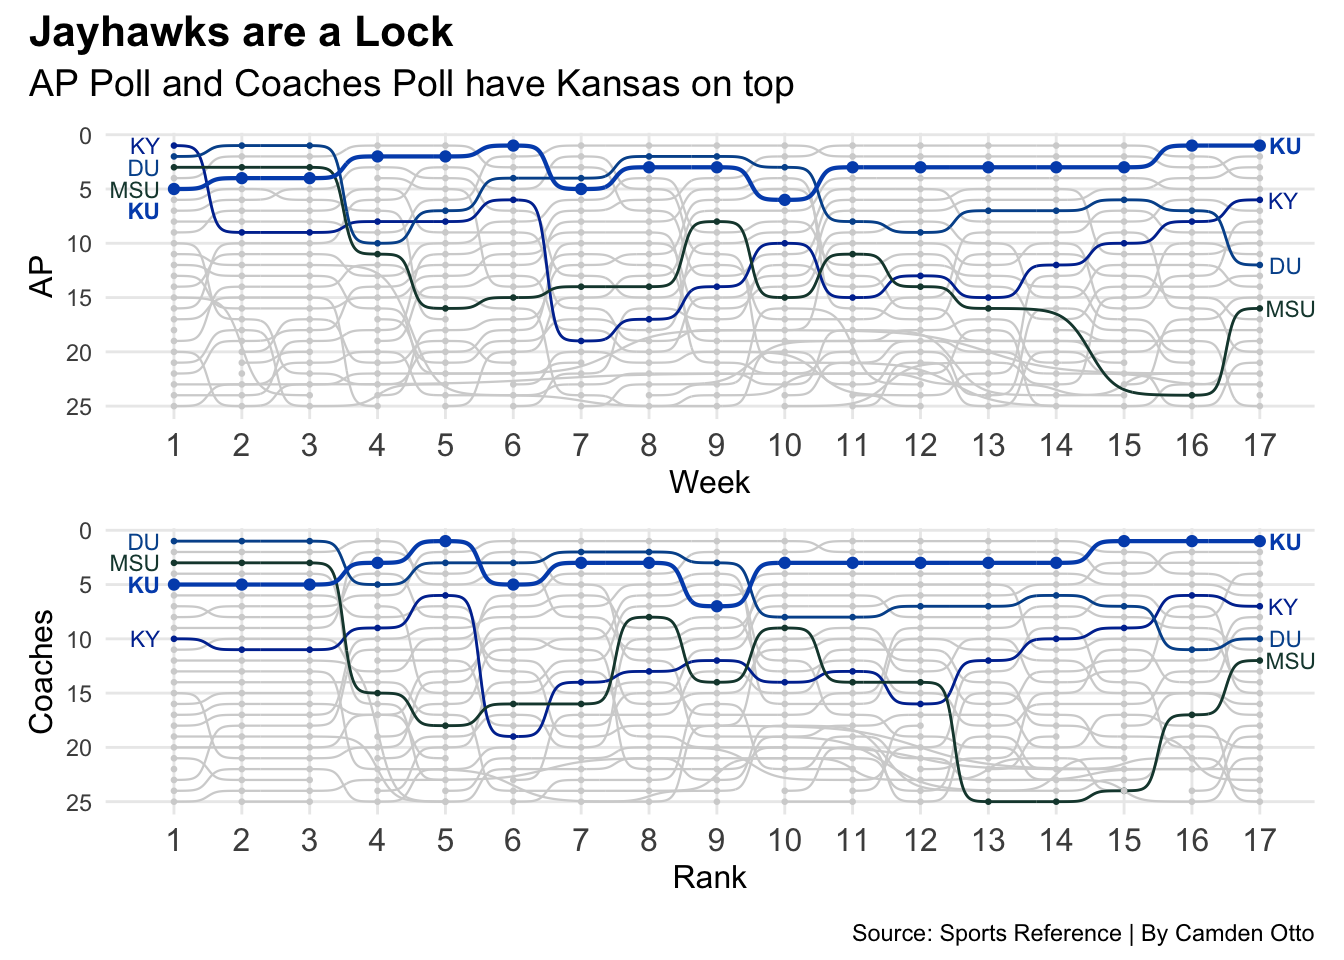
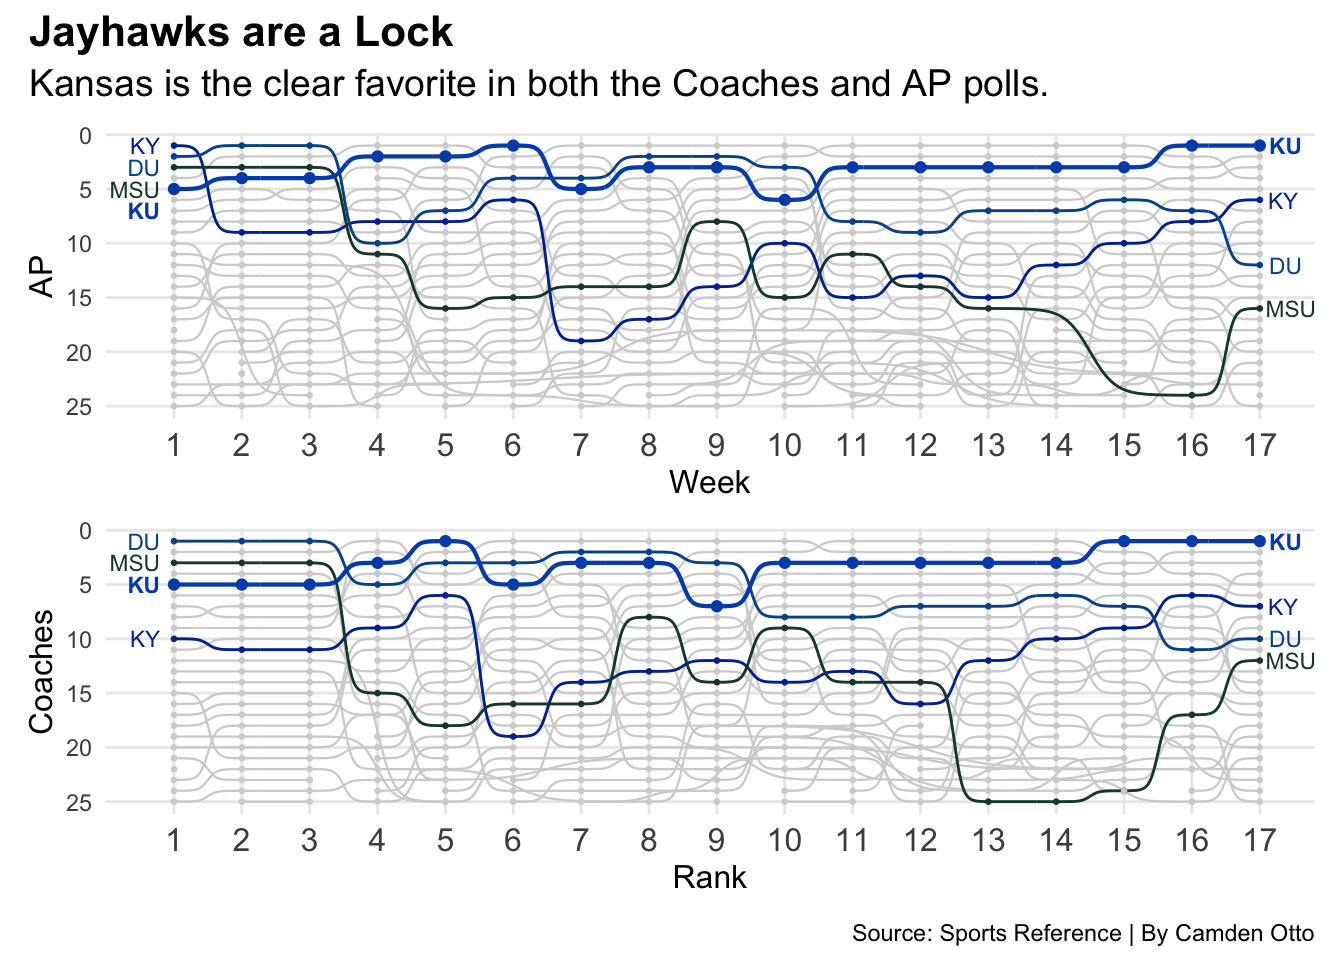
2.2

Changed region(s): [[0.0, 0.0625, 0.7812, 0.125]]

diff --git a/posts/covid-got-scared-of-the-jayhawks/index.html b/posts/covid-got-scared-of-the-jayhawks/index.html
@@ -240,7 +240,7 @@ pre > code.sourceCode > span > a:first-child::before { text-decoration: underlin
 <span id="cb1-36"><a href="#cb1-36" aria-hidden="true" tabindex="-1"></a>) <span class="sc">+</span> </span>
 <span id="cb1-37"><a href="#cb1-37" aria-hidden="true" tabindex="-1"></a>   <span class="fu">theme_minimal</span>()  <span class="sc">+</span></span>
 <span id="cb1-38"><a href="#cb1-38" aria-hidden="true" tabindex="-1"></a>  <span class="fu">labs</span>(</span>
-<span id="cb1-39"><a href="#cb1-39" aria-hidden="true" tabindex="-1"></a>    <span class="at">x=</span><span class="st">"Odds"</span>, </span>
+<span id="cb1-39"><a href="#cb1-39" aria-hidden="true" tabindex="-1"></a>    <span class="at">x=</span><span class="st">"Betting Odds"</span>, </span>
 <span id="cb1-40"><a href="#cb1-40" aria-hidden="true" tabindex="-1"></a>    <span class="at">y=</span><span class="st">" "</span></span>
 <span id="cb1-41"><a href="#cb1-41" aria-hidden="true" tabindex="-1"></a>    ) <span class="sc">+</span></span>
 <span id="cb1-42"><a href="#cb1-42" aria-hidden="true" tabindex="-1"></a>    <span class="fu">plot_annotation</span>(</span>
@@ -294,7 +294,7 @@ pre > code.sourceCode > span > a:first-child::before { text-decoration: underlin
 <span id="cb2-23"><a href="#cb2-23" aria-hidden="true" tabindex="-1"></a>    ) <span class="sc">+</span></span>
 <span id="cb2-24"><a href="#cb2-24" aria-hidden="true" tabindex="-1"></a>    <span class="fu">plot_annotation</span>(</span>
 <span id="cb2-25"><a href="#cb2-25" aria-hidden="true" tabindex="-1"></a>    <span class="at">title =</span> <span class="st">"2020 Conference Power Ranking"</span>,</span>
-<span id="cb2-26"><a href="#cb2-26" aria-hidden="true" tabindex="-1"></a>    <span class="at">subtitle =</span> <span class="st">"SOS and SRS favor the Big Ten"</span>,</span>
+<span id="cb2-26"><a href="#cb2-26" aria-hidden="true" tabindex="-1"></a>    <span class="at">subtitle =</span> <span class="st">"Measuring SOS and SRS across conferences."</span>,</span>
 <span id="cb2-27"><a href="#cb2-27" aria-hidden="true" tabindex="-1"></a>    <span class="at">caption =</span> <span class="st">"Source: Sports Reference | By Camden Otto"</span></span>
 <span id="cb2-28"><a href="#cb2-28" aria-hidden="true" tabindex="-1"></a>  ) <span class="sc">&amp;</span> </span>
 <span id="cb2-29"><a href="#cb2-29" aria-hidden="true" tabindex="-1"></a>  <span class="fu">theme</span>(</span>
@@ -346,7 +346,7 @@ pre > code.sourceCode > span > a:first-child::before { text-decoration: underlin
 <span id="cb3-27"><a href="#cb3-27" aria-hidden="true" tabindex="-1"></a>    ) <span class="sc">+</span></span>
 <span id="cb3-28"><a href="#cb3-28" aria-hidden="true" tabindex="-1"></a>    <span class="fu">plot_annotation</span>(</span>
 <span id="cb3-29"><a href="#cb3-29" aria-hidden="true" tabindex="-1"></a>    <span class="at">title =</span> <span class="st">"Recreate the Season That Never Finished"</span>,</span>
-<span id="cb3-30"><a href="#cb3-30" aria-hidden="true" tabindex="-1"></a>    <span class="at">subtitle =</span> <span class="st">"Kansas cuts down the nets when SRS and SOS tell the story"</span>,</span>
+<span id="cb3-30"><a href="#cb3-30" aria-hidden="true" tabindex="-1"></a>    <span class="at">subtitle =</span> <span class="st">"From Coast to Coast, SOS and SRS have KU in the top spot."</span>,</span>
 <span id="cb3-31"><a href="#cb3-31" aria-hidden="true" tabindex="-1"></a>    <span class="at">caption =</span> <span class="st">"Source: Sports Reference | By Camden Otto"</span></span>
 <span id="cb3-32"><a href="#cb3-32" aria-hidden="true" tabindex="-1"></a>  ) <span class="sc">&amp;</span> </span>
 <span id="cb3-33"><a href="#cb3-33" aria-hidden="true" tabindex="-1"></a>  <span class="fu">theme</span>(</span>
@@ -439,7 +439,7 @@ pre > code.sourceCode > span > a:first-child::before { text-decoration: underlin
 <span id="cb4-67"><a href="#cb4-67" aria-hidden="true" tabindex="-1"></a>APChart <span class="sc">/</span> CoachesChart <span class="sc">+</span></span>
 <span id="cb4-68"><a href="#cb4-68" aria-hidden="true" tabindex="-1"></a>  <span class="fu">plot_annotation</span>(</span>
 <span id="cb4-69"><a href="#cb4-69" aria-hidden="true" tabindex="-1"></a>    <span class="at">title =</span> <span class="st">"Jayhawks are a Lock"</span>,</span>
-<span id="cb4-70"><a href="#cb4-70" aria-hidden="true" tabindex="-1"></a>    <span class="at">subtitle =</span> <span class="st">"AP Poll and Coaches Poll have Kansas on top"</span>,</span>
+<span id="cb4-70"><a href="#cb4-70" aria-hidden="true" tabindex="-1"></a>    <span class="at">subtitle =</span> <span class="st">"Kansas is the clear favorite in both the Coaches and AP polls."</span>,</span>
 <span id="cb4-71"><a href="#cb4-71" aria-hidden="true" tabindex="-1"></a>    <span class="at">caption =</span> <span class="st">"Source: Sports Reference | By Camden Otto"</span></span>
 <span id="cb4-72"><a href="#cb4-72" aria-hidden="true" tabindex="-1"></a>  ) <span class="sc">&amp;</span> </span>
 <span id="cb4-73"><a href="#cb4-73" aria-hidden="true" tabindex="-1"></a>  <span class="fu">theme</span>(</span>

diff --git a/index.html b/index.html
@@ -209,7 +209,7 @@ window.Quarto = {
 
 <div class="quarto-listing quarto-listing-container-default" id="listing-listing">
 <div class="list quarto-listing-default">
-<div class="quarto-post image-right" data-index="0" data-categories="a2Fuc2FzJTJDYmFza2V0YmFsbCUyQ2NvbGxlZ2UlMkNjb3ZpZA==" data-listing-date-sort="1765087200000" data-listing-file-modified-sort="1764543804934" data-listing-date-modified-sort="NaN" data-listing-reading-time-sort="12" data-listing-word-count-sort="2322">
+<div class="quarto-post image-right" data-index="0" data-categories="a2Fuc2FzJTJDYmFza2V0YmFsbCUyQ2NvbGxlZ2UlMkNjb3ZpZA==" data-listing-date-sort="1765087200000" data-listing-file-modified-sort="1764602578362" data-listing-date-modified-sort="NaN" data-listing-reading-time-sort="12" data-listing-word-count-sort="2318">
 <div class="thumbnail"><a href="./posts/covid-got-scared-of-the-jayhawks/index.html" class="no-external">
 
 <img loading="lazy" src="./posts/covid-got-scared-of-the-jayhawks/image.png" class="thumbnail-image">
